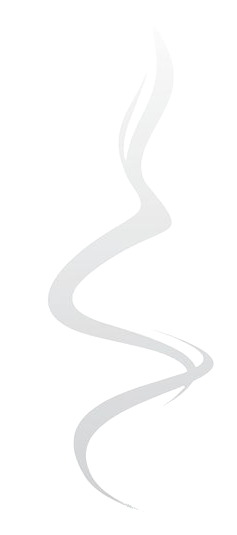
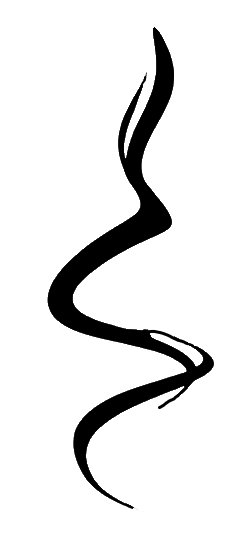
flame color change

Changed region(s): [[0.1772, 0.0299, 0.9156, 0.957]]

diff --git a/experiment3/simulation/index.html b/experiment3/simulation/index.html
@@ -443,6 +443,11 @@
             <img id="lead_wire" src="./Images/wire2.png" style="visibility: hidden; position: absolute; top: 28px; left: 250px; height: 110px; width: 160px;" alt="Lead wire">
 
             <button id="move_isometric" onclick="moveIsometricView();" style="visibility:hidden;position:absolute;top:70px;left:270px;border-radius: 5px;color: #fff;background-color: black;cursor: pointer;">Move to Isometric view</button>
+            <!-- <img id="esc_power1" style="visibility: hidden;position: absolute;top: 100px;left: 100px;z-index: 650;height: 50px;width: 70px;opacity: 0;" src="./Images/Esc_Power_Connected_1.png" alt="Esc power wires">
+            <img id="esc_power2" style="visibility: hidden;position: absolute;top: 100px;left: 100px;z-index: 650;height: 50px;width: 70px;opacity: 0;" src="./Images/Esc_Power_Connected_2.png" alt="Esc power wires">
+            <img id="esc_power3" style="visibility: hidden;position: absolute;top: 100px;left: 100px;z-index: 650;height: 50px;width: 70px;opacity: 0;" src="./Images/Esc_Power_Connected_3.png" alt="Esc power wires">
+            <img id="esc_power4" style="visibility: hidden;position: absolute;top: 100px;left: 100px;z-index: 650;height: 50px;width: 70px;opacity: 0;" src="./Images/Esc_Power_Connected_4.png" alt="Esc power wires"> -->
+
 
             <button id="solder_wires" onclick="solderAllWires();" style="visibility: hidden; position: absolute; top: 60px; left: 510px; border-radius: 5px; color: rgb(255, 255, 255); background-color: black; cursor: pointer;">Solder all ESC Wires</button>
             <!-- battery to PCB connector -->
@@ -490,6 +495,7 @@
 
             </div>
 
+            <!-- Note demonstrating the placing of right propeller -->
             <div id="prop_note" style="position: absolute;visibility: hidden;top: 350px;left: 179px;height: 175px;width: 315px;border: 1px solid black;border-radius: 15px;">
                 <img id="demo_motor1" src="./Images/Motor_1.png" style="  position: absolute; left: 20px; top: 20px; height: 55px; width:90px;  transform:rotate(3deg); z-index: 100;" alt="Motor">
                 <img id="demo_motor2" src="./Images/Motor_1.png" style="  position: absolute; left: 20px; top: 100px; height: 55px; width:90px;  transform:rotate(3deg); z-index: 100;" alt="Motor">

diff --git a/experiment3/simulation/js/sgca.js b/experiment3/simulation/js/sgca.js
@@ -1933,6 +1933,7 @@ function solderAllWires() {
 
 function moveIsometricView() {
     document.getElementById('move_isometric').style.visibility = "hidden";
+
     document.getElementById('batteryToPcb').onclick = "";
 
     myStopFunction();
@@ -2034,7 +2035,9 @@ function moveIsometricView() {
             document.getElementById('esc_wire' + i).style.opacity = 1;
             document.getElementById('esc_wire' + i).style.transition = "all 8s ease-in-out";
 
-
+            document.getElementById('esc_power' + i).style.visibility = "visible";
+            document.getElementById('esc_power' + i).style.opacity = 1;
+            document.getElementById('esc_power' + i).style.transition = "all 8s ease-in-out";
 
 
 
